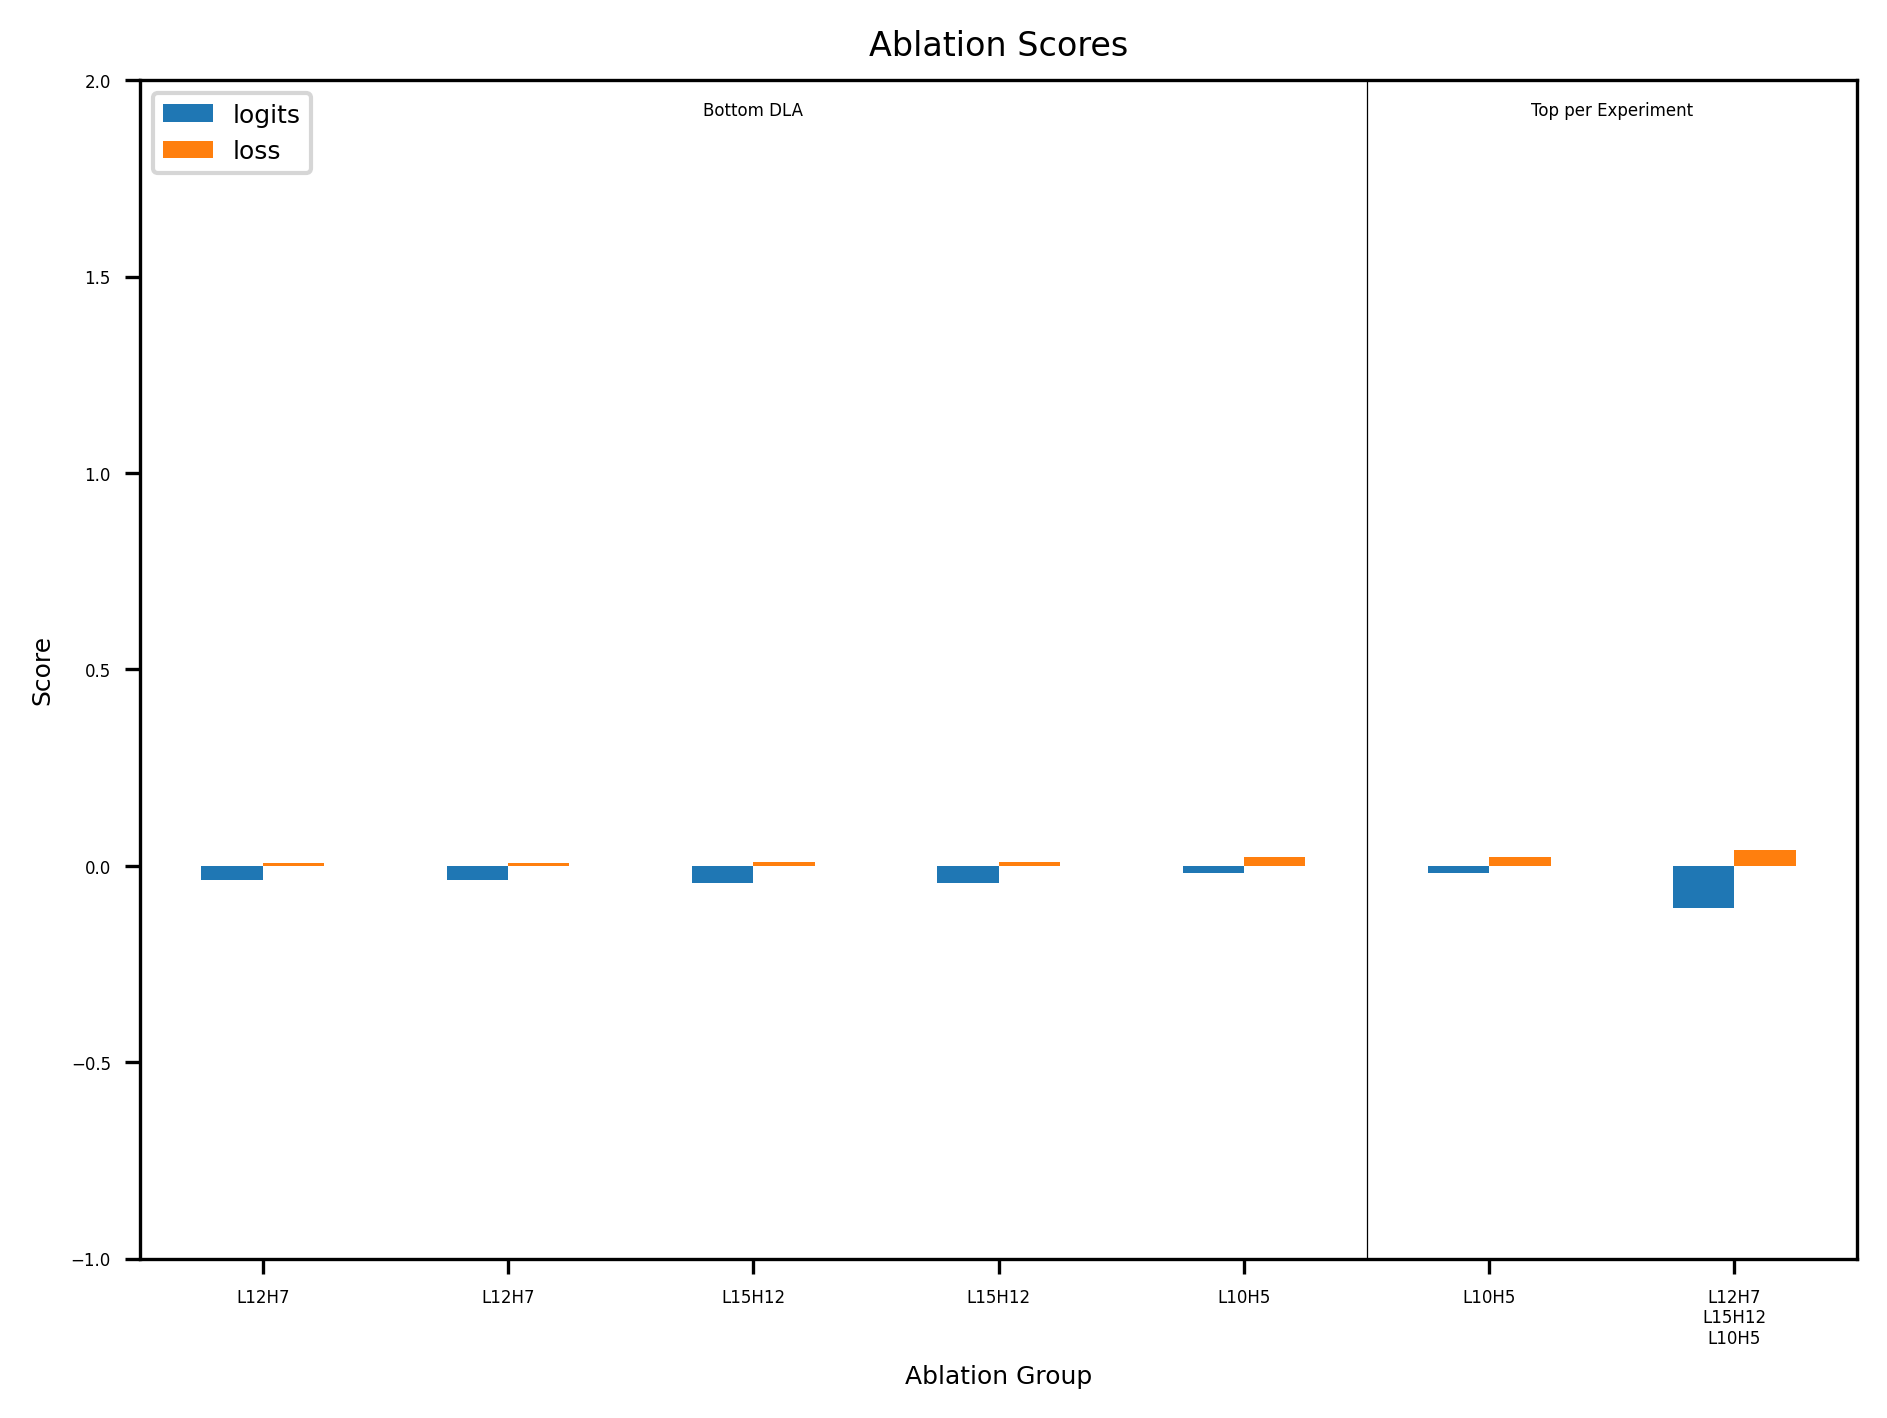
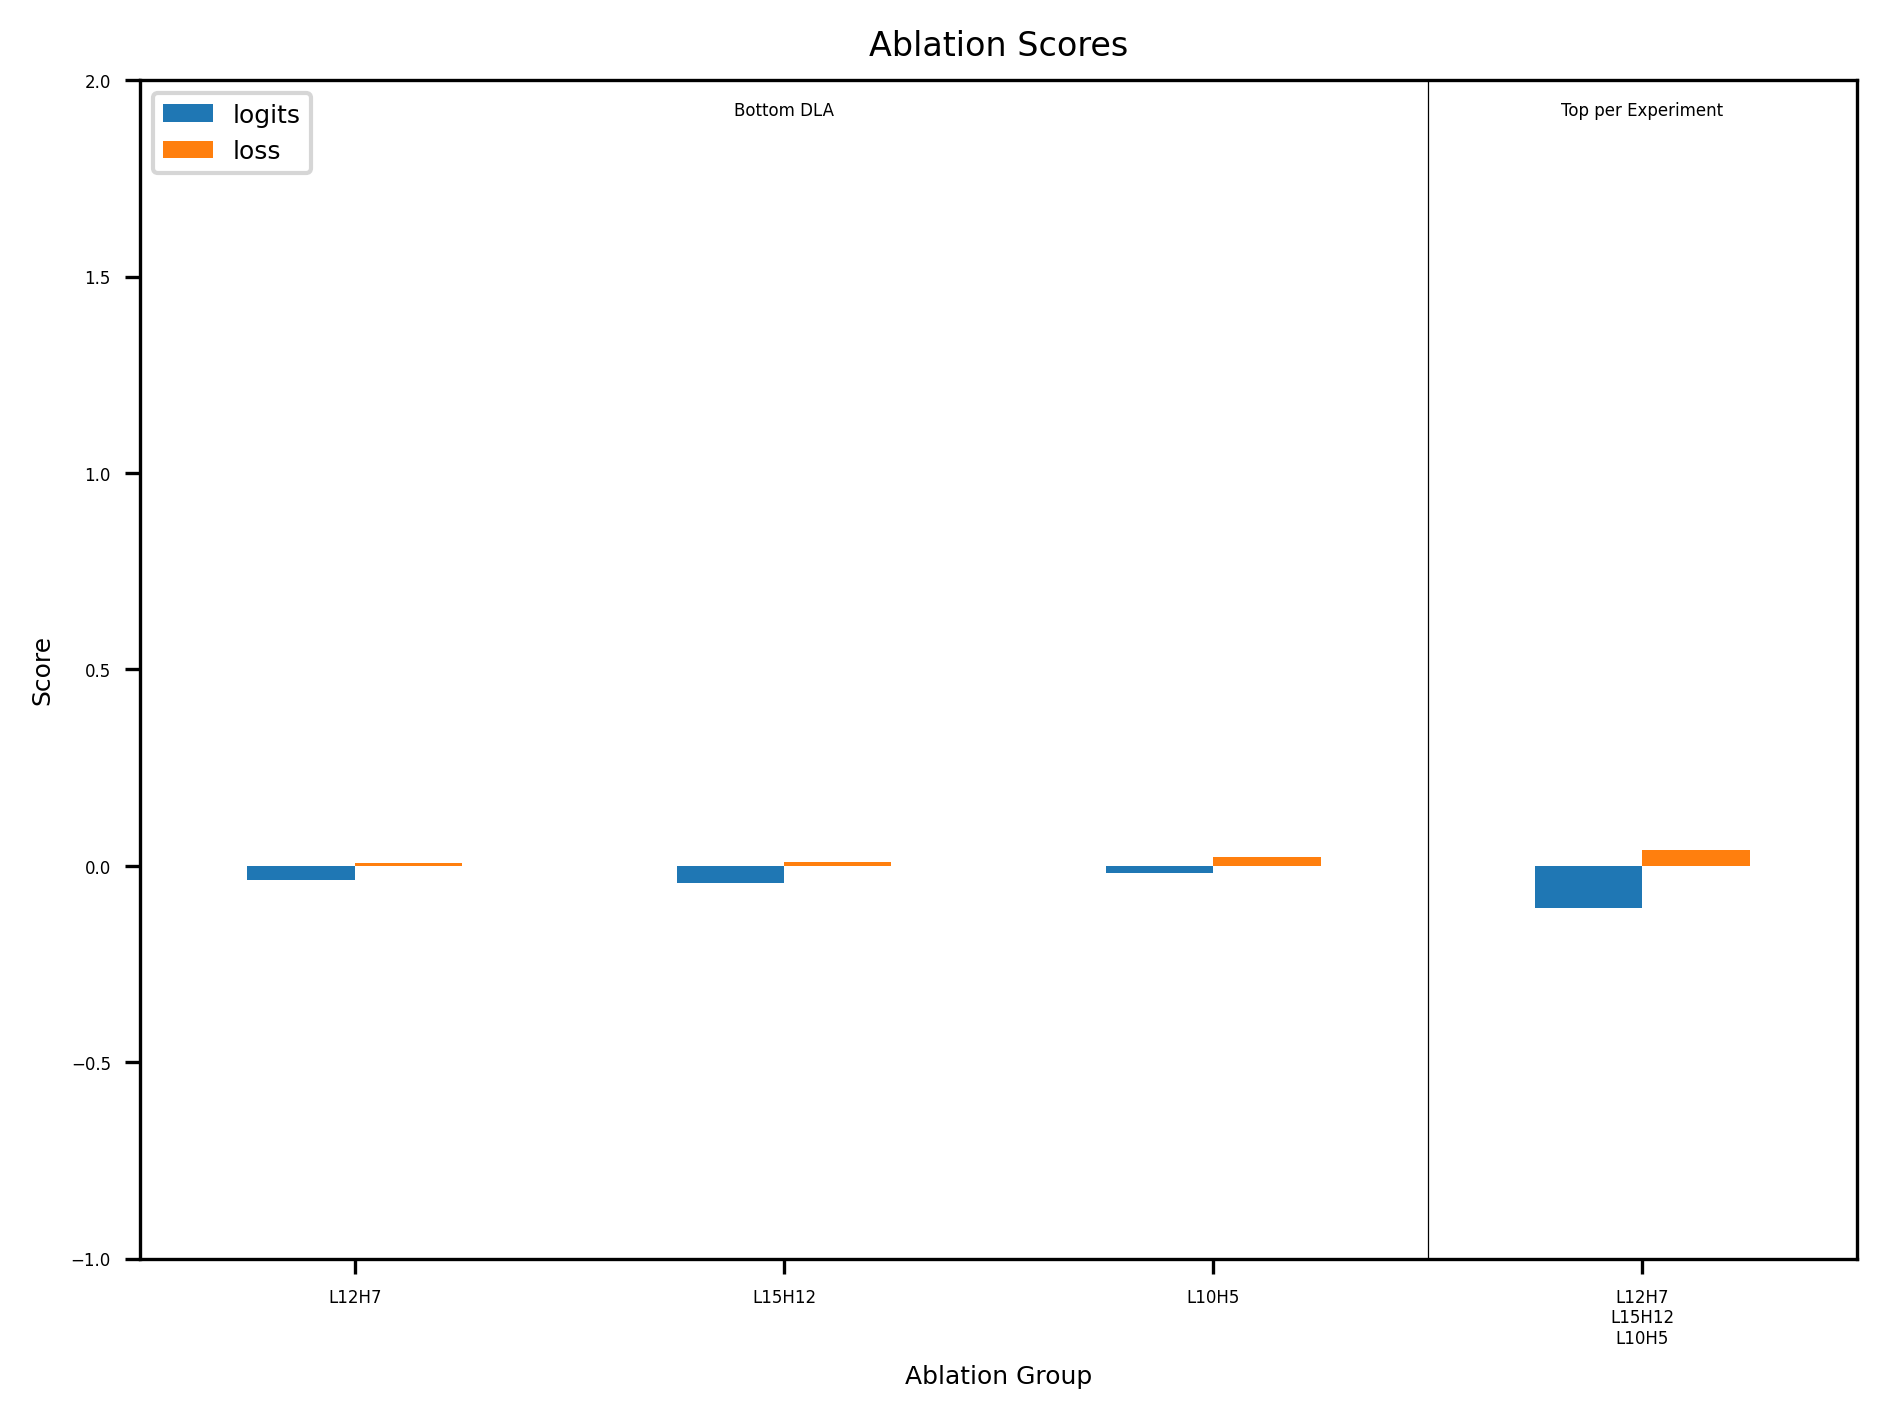
FIXED negative DLA plots

diff --git a/plot.py b/plot.py
@@ -735,7 +735,7 @@ def plot_ablation(logit_file: str, loss_file: str, outfile: str = None, model_na
             [(9, 13), (15, 12), (15, 14), (13, 30), (13, 30)],
         ],
         "Pythia-1.4B_static": [[(18, 4)], [(19, 14)], [(13, 4)], [(0, 10)], [(3, 4)], [(23, 9)], [(12, 12)], [(17, 2)], [(1, 13)], [(2, 15)], [(3, 4), (2, 15), (0, 10)], [(19, 14), (13, 4), (17, 2)], [(18, 4), (23, 9), (12, 12)], [(19, 14), (1, 13), (23, 9)], [(3, 4), (19, 14), (18, 4), (19, 14)], [(2, 15), (13, 4), (23, 9), (1, 13)], [(0, 10), (17, 2), (12, 12), (23, 9)]],
-        "Pythia-1.4B_neg_DLA": [[(10, 5)], [(15, 12)], [(12, 7)], [(12, 7), (15, 12), (10, 5)], [(12, 7)], [(15, 12)], [(10, 5)]]
+        "Pythia-1.4B_neg_DLA": [[(10, 5)], [(15, 12)], [(12, 7)], [(12, 7), (15, 12), (10, 5)]]
     }
 
     custom_order = {
@@ -775,7 +775,7 @@ def plot_ablation(logit_file: str, loss_file: str, outfile: str = None, model_na
         "Pythia-1.4B": ["L0H13", "L18H9", "L13H4", "L18H4", "L14H5", "L15H13\nL19H1\nL14H5"],
         "Llama-3.2-1B-Instruct": ["L9H13", "L15H12", "L15H14", "L13H30", "L12H30", "L10H3\nL12H30\nL13H30"],
         "Pythia-1.4B_static": ["L0H10", "L17H2", "L12H12", "L1H13", "L19H14\nL1H13\nL23H9"],
-        "Pythia-1.4B_neg_DLA": ["L10H5", "L12H7\nL15H12\nL10H5"]
+        "Pythia-1.4B_neg_DLA": ["L10H5"]
     }
 
     if "static" in logit_file:
@@ -798,11 +798,16 @@ def plot_ablation(logit_file: str, loss_file: str, outfile: str = None, model_na
             name += f"\nL{layer_head[0]}H{layer_head[1]}"
         abl_heads.append(name[1:])  # strip first newline
 
+
     logit_tensor = t.load(logit_file, map_location=t.device(device))
     loss_tensor = t.load(loss_file, map_location=t.device(device))
 
-    mean_logit_tensor = get_mean_sentence_tensor(logit_tensor)
-    mean_loss_tensor = get_mean_sentence_tensor(loss_tensor)
+    if "neg_DLA" in model_name:
+        mean_logit_tensor = get_mean_sentence_tensor(logit_tensor)[:-3]
+        mean_loss_tensor = get_mean_sentence_tensor(loss_tensor)[:-3]
+    else:
+        mean_logit_tensor = get_mean_sentence_tensor(logit_tensor)
+        mean_loss_tensor = get_mean_sentence_tensor(loss_tensor)
 
     df = pd.DataFrame({
         "layer.head": abl_heads,
@@ -935,8 +940,8 @@ def plot_logit_diff_per_sent(logit_file, pred_file, outfile = None, model_name =
 
 if __name__ == "__main__":
     parser = argparse.ArgumentParser(prog='idiom head detector')
-    parser.add_argument('--model_name', '-m', help='model to run the experiment with', default="Pythia-1.4B_neg_DLA")
-    parser.add_argument('--tensor_file', '-t', help='file with the tensor scores', default="scores/ablation/Pythia-1.4B_neg_DLA/ablation_trans_0_None.json", type=str)
+    parser.add_argument('--model_name', '-m', help='model to run the experiment with', default="Pythia-1.4B")
+    parser.add_argument('--tensor_file', '-t', help='file with the tensor scores', default="scores/ablation/Pythia-1.4B/ablation_formal_0_None.json", type=str)
     parser.add_argument('--image_file', '-i', help='output file for the plot', default=None, type=str)
     parser.add_argument('--scatter_file', '-s', help='file with tensor scores for the scatter plot', default=None, type=str)
 
